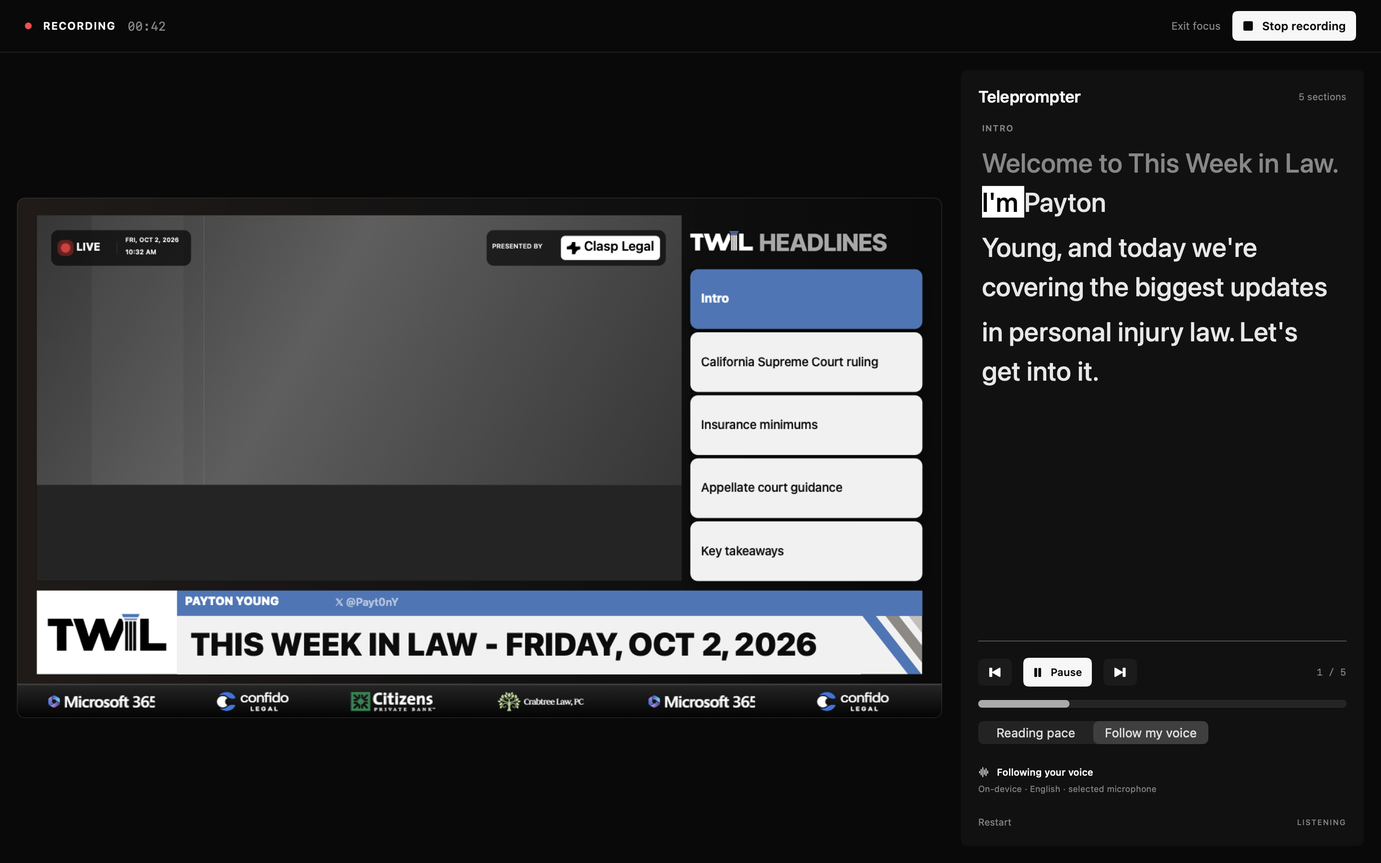
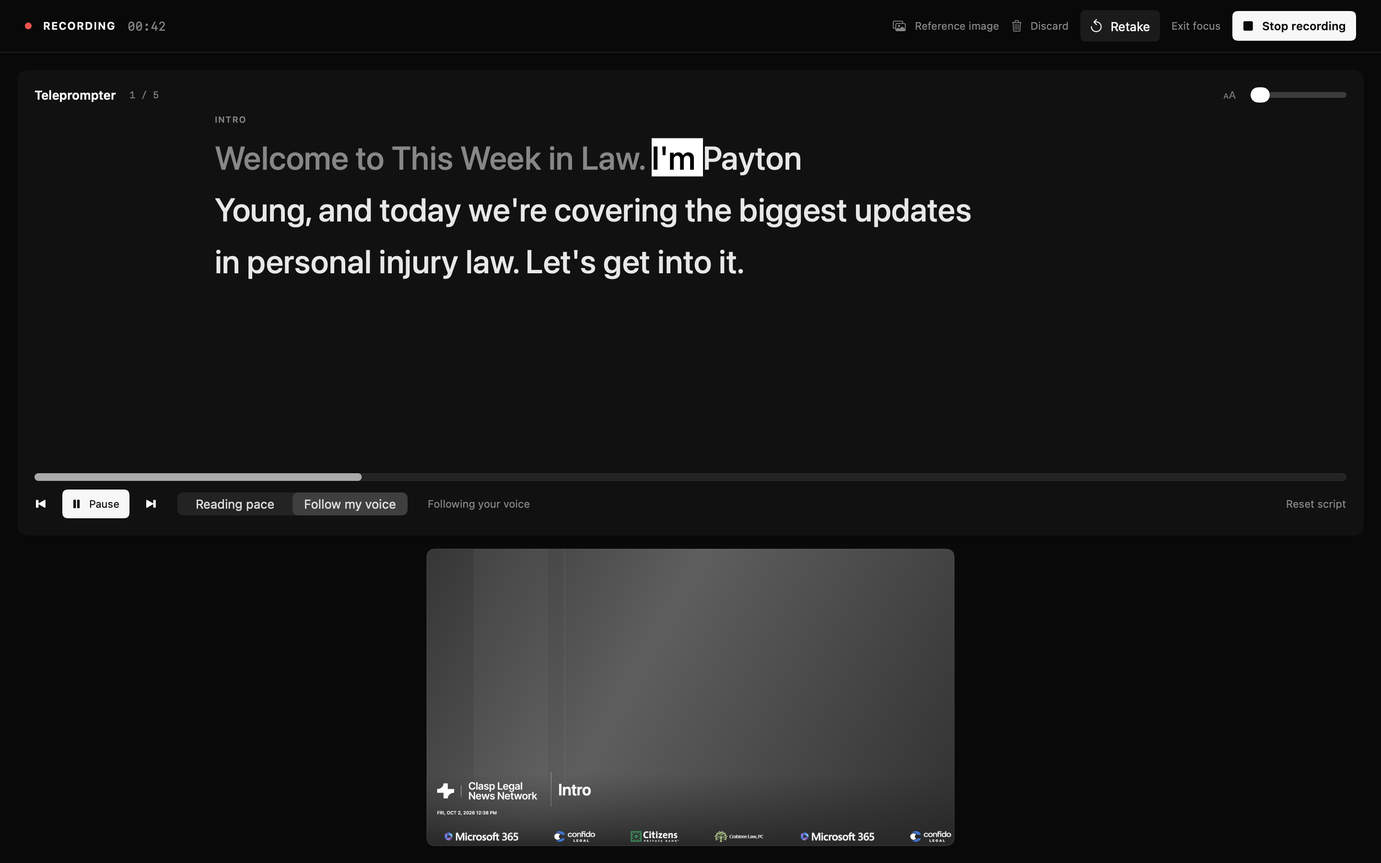
Put the teleprompter first, add recoverable retakes, and frost SVG overlays

diff --git a/Sources/StudioView.swift b/Sources/StudioView.swift
@@ -27,8 +27,27 @@ struct StudioView: View {
                     branding.frame(width: 222).transition(.move(edge: .leading).combined(with: .opacity))
                     Rectangle().fill(edge).frame(width: 1)
                 }
-                center.frame(maxWidth: .infinity, maxHeight: .infinity)
-                script.frame(width: model.recordingFocus ? 420 : 336)
+                if prompterAtTop {
+                    GeometryReader { geometry in
+                        VStack(spacing: 14) {
+                            topPrompter.frame(height: geometry.size.height * 0.60)
+                            HStack(spacing: 20) {
+                                cameraFrame.frame(maxWidth: 640, maxHeight: .infinity)
+                                if !model.recordingFocus {
+                                    VStack(alignment: .leading, spacing: 15) {
+                                        Text("Preview").font(.system(size: 13, weight: .medium))
+                                        HStack { referenceButton; Spacer(); Toggle("Overlay", isOn: $model.project.graphics).toggleStyle(.switch).controlSize(.mini) }
+                                        deviceBar
+                                        Button { model.openAppleEffects() } label: { Label("Apple backgrounds & effects", systemImage: "sparkles") }.buttonStyle(.plain).foregroundStyle(muted).disabled(!model.connected)
+                                    }.font(.system(size: 11)).frame(maxWidth: 380)
+                                }
+                            }.frame(maxWidth: .infinity, maxHeight: .infinity)
+                        }
+                    }
+                } else {
+                    center.frame(maxWidth: .infinity, maxHeight: .infinity)
+                    script.frame(width: 336)
+                }
             }.padding(model.recordingFocus ? 18 : 24)
             if !model.recordingFocus { footer }
         }.background(ink).foregroundStyle(.white).preferredColorScheme(.dark).tint(accent)
@@ -61,6 +80,10 @@ struct StudioView: View {
             Text(model.overlay.title).font(.system(size: 11, weight: .medium)).foregroundStyle(muted).lineLimit(1)
             Spacer()
             Button { model.importVideo() } label: { Label("Import video", systemImage: "film.stack").font(.system(size: 11, weight: .medium)) }.buttonStyle(StudioButton()).disabled(model.busy)
+            if model.recording || model.preparingRecording {
+                Button("Discard") { model.discardRecording() }.buttonStyle(StudioButton()).disabled(model.finishingRecording)
+                Button("Retake") { model.discardRecording(retake: true) }.buttonStyle(StudioButton()).disabled(model.finishingRecording)
+            }
             Button { model.draftsOpen = true } label: { Text("Drafts").font(.system(size: 11, weight: .medium)) }.buttonStyle(StudioButton()).disabled(model.busy)
             Button { model.editOverlays() } label: { Label("Overlays", systemImage: "square.stack").font(.system(size: 11, weight: .medium)) }.buttonStyle(StudioButton())
             Button { customize() } label: { Label("Customize", systemImage: "slider.horizontal.3").font(.system(size: 11, weight: .medium)) }.buttonStyle(StudioButton()).help("Edit your broadcast headline, presenter and sponsors")
@@ -82,6 +105,8 @@ struct StudioView: View {
             else { Text(model.connecting ? "Allow camera and microphone access if prompted" : model.preparingRecording ? "Waiting for the first camera frame…" : "Finishing your movie…").font(.system(size: 10)).foregroundStyle(muted) }
             Spacer()
             referenceButton
+            Button { model.discardRecording() } label: { Label("Discard", systemImage: "trash") }.buttonStyle(.plain).font(.system(size: 11)).foregroundStyle(muted).disabled(model.finishingRecording).help("Move this take to Trash")
+            Button { model.discardRecording(retake: true) } label: { Label("Retake", systemImage: "arrow.counterclockwise") }.buttonStyle(StudioButton()).disabled(model.finishingRecording).help("Discard this take and record again from the beginning")
             Button("Exit focus") { model.recordingFocus = false }.buttonStyle(.plain).font(.system(size: 11)).foregroundStyle(muted)
             Button { model.stopRecording() } label: { Label(model.openingVideoEditor ? "Opening editor…" : model.finishingRecording ? "Preparing edit…" : model.preparingRecording ? "Cancel" : "Stop recording", systemImage: "stop.fill").font(.system(size: 12, weight: .semibold)) }.buttonStyle(StudioButton(primary: true)).disabled(model.finishingRecording)
         }.padding(.horizontal, 26).frame(height: 54)
@@ -108,7 +133,20 @@ struct StudioView: View {
                 Spacer()
                 Text(model.outputDimensions).font(.system(size: 9, weight: .medium)).foregroundStyle(muted)
             } }
-            if model.recordingFocus { Spacer(minLength: 0) }
+            cameraFrame
+            if !model.recordingFocus { HStack(spacing: 16) {
+                referenceButton
+                Button { model.openAppleEffects() } label: { Label(model.nativeBackgroundActive ? "Apple background active" : "Apple backgrounds & effects", systemImage: "sparkles").font(.system(size: 11)) }.buttonStyle(.plain).foregroundStyle(muted).disabled(!model.connected).help("Open macOS native video effects and backgrounds")
+                Button { model.editOverlays("Sponsors") } label: { Label("Edit sponsors", systemImage: "arrow.triangle.2.circlepath").font(.system(size: 11)) }.buttonStyle(.plain).foregroundStyle(muted)
+                Spacer()
+                Toggle("Show overlay", isOn: $model.project.graphics).toggleStyle(.switch).controlSize(.mini).font(.system(size: 11))
+                Button { model.snapshot() } label: { Label("Save frame", systemImage: "camera").font(.system(size: 11)) }.buttonStyle(.plain).foregroundStyle(muted).help("Save the current preview as an image")
+            }.frame(height: 24)
+            deviceBar }
+            Spacer(minLength: 0)
+        }
+    }
+    private var cameraFrame: some View {
             ZStack {
                 if model.connected || model.allowsWindowChanges { CameraPreviewView(surface: model.previewSurface) }
                 else if let image = model.demoImage { Image(nsImage: image).resizable().aspectRatio(model.outputAspectRatio, contentMode: .fit) }
@@ -125,17 +163,6 @@ struct StudioView: View {
                     }
                 }
             }.aspectRatio(model.outputAspectRatio, contentMode: .fit).clipShape(RoundedRectangle(cornerRadius: 8)).overlay(RoundedRectangle(cornerRadius: 8).stroke(edge))
-            if !model.recordingFocus { HStack(spacing: 16) {
-                referenceButton
-                Button { model.openAppleEffects() } label: { Label(model.nativeBackgroundActive ? "Apple background active" : "Apple backgrounds & effects", systemImage: "sparkles").font(.system(size: 11)) }.buttonStyle(.plain).foregroundStyle(muted).disabled(!model.connected).help("Open macOS native video effects and backgrounds")
-                Button { model.editOverlays("Sponsors") } label: { Label("Edit sponsors", systemImage: "arrow.triangle.2.circlepath").font(.system(size: 11)) }.buttonStyle(.plain).foregroundStyle(muted)
-                Spacer()
-                Toggle("Show overlay", isOn: $model.project.graphics).toggleStyle(.switch).controlSize(.mini).font(.system(size: 11))
-                Button { model.snapshot() } label: { Label("Save frame", systemImage: "camera").font(.system(size: 11)) }.buttonStyle(.plain).foregroundStyle(muted).help("Save the current preview as an image")
-            }.frame(height: 24)
-            deviceBar }
-            Spacer(minLength: 0)
-        }
     }
     private var referenceButton: some View {
         Button { referenceOpen.toggle() } label: {
@@ -151,12 +178,52 @@ struct StudioView: View {
             }.frame(maxWidth: .infinity, alignment: .leading)
             Rectangle().fill(edge).frame(width: 1, height: 36)
             VStack(alignment: .leading, spacing: 8) {
-                HStack { Label("Microphone", systemImage: "mic").font(.system(size: 10, weight: .medium)).foregroundStyle(muted); Spacer(); MicrophoneMeter(meter: model.audioMeter) }
+                HStack { Label(prompterAtTop ? "Mic" : "Microphone", systemImage: "mic").font(.system(size: 10, weight: .medium)).fixedSize(horizontal: true, vertical: false).foregroundStyle(muted); Spacer(); MicrophoneMeter(meter: model.audioMeter) }
                 Picker("Microphone", selection: $model.microphoneID) { Text("No microphone").tag("none"); ForEach(model.microphones, id: \.uniqueID) { Text($0.localizedName).tag($0.uniqueID) } }.labelsHidden().disabled(model.busy).onChange(of: model.microphoneID) { _, _ in model.selectDevice() }
             }.frame(maxWidth: .infinity, alignment: .leading)
             Button { model.refreshDevices() } label: { Image(systemName: "arrow.clockwise").font(.system(size: 11)) }.buttonStyle(.plain).foregroundStyle(muted).disabled(model.busy).help("Refresh camera and microphone list").accessibilityLabel("Refresh devices")
             if model.connected { Button("Disconnect") { model.disconnect() }.buttonStyle(.plain).font(.system(size: 10)).foregroundStyle(muted).disabled(model.busy) }
         }.pickerStyle(.menu).font(.system(size: 11)).padding(16).background(panel).clipShape(RoundedRectangle(cornerRadius: 8))
+    }
+    private var prompterAtTop: Bool { model.recordingFocus || scriptTab == "Teleprompter" }
+    private var promptText: some View {
+                ScrollViewReader { proxy in
+                    ScrollView {
+                        LazyVStack(alignment: .leading, spacing: 14) {
+                            Text(model.section?.title.uppercased() ?? "").font(.system(size: 9, weight: .semibold)).tracking(0.8).foregroundStyle(muted)
+                            ForEach(0..<max(1, (model.sectionWords.count + 7) / 8), id: \.self) { line in Text(promptLine(line)).font(.system(size: prompterAtTop ? max(34, model.prompterSize) : model.prompterSize, weight: .medium)).lineSpacing(8).fixedSize(horizontal: false, vertical: true).id(line) }
+                            Color.clear.frame(height: 100)
+                        }.padding(.horizontal, 4)
+                    }.onChange(of: model.currentWord / 8) { _, line in if model.prompterRunning { withAnimation(.easeInOut(duration: 0.4)) { proxy.scrollTo(line, anchor: prompterAtTop ? .top : .center) } } }.onChange(of: model.activeSection) { _, _ in proxy.scrollTo(model.currentWord / 8, anchor: prompterAtTop ? .top : .center) }.onAppear { proxy.scrollTo(model.currentWord / 8, anchor: prompterAtTop ? .top : .center) }
+                }
+    }
+    private var topPrompter: some View {
+        VStack(alignment: .leading, spacing: 12) {
+            HStack(spacing: 14) {
+                Text("Teleprompter").font(.system(size: 13, weight: .semibold))
+                Text("\(model.activeSection + 1) / \(model.project.sections.count)").font(.system(size: 10, design: .monospaced)).foregroundStyle(muted)
+                Spacer()
+                if !model.recordingFocus {
+                    Button("Import script") { model.importScript() }.buttonStyle(.plain)
+                    Button("Edit / paste") { model.editScript() }.buttonStyle(.plain)
+                    Button("Sections") { scriptTab = "Sections" }.buttonStyle(.plain)
+                }
+                Image(systemName: "textformat.size").foregroundStyle(muted)
+                Slider(value: $model.prompterSize, in: 34...52).frame(width: 100).help("Teleprompter text size")
+            }.font(.system(size: 11))
+            promptText.frame(maxWidth: 1000, maxHeight: .infinity, alignment: .topLeading).frame(maxWidth: .infinity)
+            ProgressView(value: model.progress).tint(.white).frame(height: 2)
+            HStack(spacing: 16) {
+                Button { model.previous() } label: { Image(systemName: "backward.end.fill") }.help("Previous section")
+                Button { model.togglePrompter() } label: { Label(model.prompterRunning ? "Pause" : model.prompterMode == .voice ? "Follow my voice" : "Read script", systemImage: model.prompterRunning ? "pause.fill" : model.prompterMode == .voice ? "mic.fill" : "play.fill") }.buttonStyle(StudioButton(primary: true))
+                Button { model.next() } label: { Image(systemName: "forward.end.fill") }.disabled(model.activeSection + 1 >= model.project.sections.count).help("Next section")
+                Picker("Scroll mode", selection: $model.prompterMode) { ForEach(PrompterMode.allCases, id: \.self) { Text($0.rawValue).tag($0) } }.pickerStyle(.segmented).frame(width: 250).labelsHidden()
+                if model.prompterMode == .voice { Text(model.voiceStatus).foregroundStyle(muted).lineLimit(1) }
+                else { Slider(value: $model.project.wordsPerMinute, in: 80...220, step: 5).frame(width: 110); Text("\(Int(model.project.wordsPerMinute)) wpm").foregroundStyle(muted) }
+                Spacer(minLength: 0)
+                Button("Reset script") { model.restart() }.foregroundStyle(muted)
+            }.buttonStyle(.plain).font(.system(size: 11))
+        }.padding(18).background(panel).clipShape(RoundedRectangle(cornerRadius: 10))
     }
     var script: some View {
         VStack(alignment: .leading, spacing: 17) {
@@ -189,15 +256,7 @@ struct StudioView: View {
                     }.onChange(of: model.activeSection) { _, _ in if let id = model.section?.id { withAnimation { proxy.scrollTo(id, anchor: .top) } } }
                 }
             } else {
-                ScrollViewReader { proxy in
-                    ScrollView {
-                        LazyVStack(alignment: .leading, spacing: 14) {
-                            Text(model.section?.title.uppercased() ?? "").font(.system(size: 9, weight: .semibold)).tracking(0.8).foregroundStyle(muted)
-                            ForEach(0..<max(1, (model.sectionWords.count + 7) / 8), id: \.self) { line in Text(promptLine(line)).font(.system(size: model.recordingFocus ? max(28, model.prompterSize) : model.prompterSize, weight: .medium)).lineSpacing(8).fixedSize(horizontal: false, vertical: true).id(line) }
-                            Color.clear.frame(height: 100)
-                        }.padding(.horizontal, 4)
-                    }.onChange(of: model.currentWord / 8) { _, line in if model.prompterRunning { withAnimation(.easeInOut(duration: 0.4)) { proxy.scrollTo(line, anchor: .center) } } }.onChange(of: model.activeSection) { _, _ in proxy.scrollTo(model.currentWord / 8, anchor: .center) }.onAppear { proxy.scrollTo(model.currentWord / 8, anchor: .center) }
-                }
+                promptText
                 if !model.recordingFocus { HStack { Image(systemName: "textformat.size").foregroundStyle(muted); Slider(value: $model.prompterSize, in: 16...34).help("Prompter text size") } }
             }
             Spacer(minLength: 0)

diff --git a/Sources/StudioModel.swift b/Sources/StudioModel.swift
@@ -84,6 +84,8 @@ enum PrompterMode: String, CaseIterable {
     private var recordedProject: StudioProject?
     private var recordCues: [RecordedSectionCue] = []
     private var recordReferences: [RecordedReferenceCue] = []
+    private enum TakeAction { case edit, discard, retake }
+    private var takeAction = TakeAction.edit
     @Published var editorOpen = false
     @Published var editorText = ""
     @Published var settingsOpen = false
@@ -95,7 +97,7 @@ enum PrompterMode: String, CaseIterable {
     var outputAspectRatio: CGFloat { outputRect.width / outputRect.height }
     var outputDimensions: String { "\(Int(outputRect.width)) × \(Int(outputRect.height))" }
     var sponsors: [SponsorItem] { SponsorCatalog.migrated(project) }
-    @Published var prompterSize = 22.0
+    @Published var prompterSize = 34.0
     let updater = AppUpdater()
     let engine = CaptureEngine()
     private var timer: Timer?
@@ -198,6 +200,17 @@ enum PrompterMode: String, CaseIterable {
         engine.onRecordingFinished = { [weak self] url, error in DispatchQueue.main.async {
             guard let self else { return }
             self.frameDeadline?.invalidate(); self.recording = false; self.preparingRecording = false; self.finishingRecording = false; self.recordStarted = nil; self.recordingFocus = false; self.pausePrompter()
+            let action = self.takeAction; self.takeAction = .edit
+            if action != .edit {
+                do {
+                    if let folder = self.recordingDraft { try EditStorage.trashDraft(folder) }
+                    self.recordingDraft = nil; self.recordedProject = nil; self.recordCues = []; self.recordReferences = []; self.recordElapsed = 0
+                    self.notice = "Take moved to Trash. You can restore it in Finder."
+                    self.restart()
+                    if action == .retake { self.startRecording() }
+                } catch { self.alert = "The take was kept because it could not be moved to Trash: " + error.localizedDescription }
+                return
+            }
             if let error { self.alert = error; self.notice = "Recording could not be saved."; self.log(error) }
             else if let url {
                 self.notice = "Take captured · opening the editor…"; self.log("Draft recording finalized successfully")
@@ -530,6 +543,7 @@ enum PrompterMode: String, CaseIterable {
     }
     func startRecording() {
         guard !busy else { return }
+        takeAction = .edit
         // Focus and feedback change on the click, even before permissions or the
         // first camera frame. Never leave the user wondering whether it worked.
         recordingFocus = true; preparingRecording = true; recordElapsed = 0
@@ -573,6 +587,25 @@ enum PrompterMode: String, CaseIterable {
         }
         finishingRecording = true; recording = false; preparingRecording = false
         log("Finalizing recording"); engine.stopRecording()
+    }
+    func discardRecording(retake: Bool = false) {
+        guard !finishingRecording, recording || preparingRecording || pendingRecordingStart else { return }
+        if pendingRecordingStart {
+            stopRecording(); restart()
+            if retake { startRecording() }
+            return
+        }
+        takeAction = retake ? .retake : .discard; stopRecording()
+        notice = retake ? "Preparing a fresh take…" : "Discarding take…"
+    }
+    func discardDraft(retake: Bool = false) {
+        guard let editor = videoEditor, !editor.isExporting, !editor.importing else { return }
+        editor.saveNow()
+        do {
+            try EditStorage.trashDraft(editor.folder); editor.stop(); videoEditor = nil; recordingSavedOpen = false
+            restart(); notice = "Draft moved to Trash. Exported videos and original imports are kept."
+            if retake { startRecording() }
+        } catch { editor.error = "The draft was kept because it could not be moved to Trash: " + error.localizedDescription }
     }
     private func configureEditor(_ editor: VideoEditorModel) {
         pausePrompter(); engine.disconnect(); connected = false

diff --git a/Tests/RecordingRetakeTests.swift b/Tests/RecordingRetakeTests.swift
@@ -1,0 +1,46 @@
+import AppKit
+import AVFoundation
+
+extension StudioTests {
+    static func recordingRetakeChecks() async {
+        let model = await MainActor.run { () -> StudioModel in
+            let model = StudioModel(persist: false); model.connected = true; model.prompterMode = .timed
+            model.activeSection = 1; model.startRecording(); return model
+        }
+        for index in 0..<8 {
+            model.engine.queue.sync { model.engine.processVideo(videoSample(index: index)!) }
+            try? await Task.sleep(nanoseconds: 35_000_000)
+        }
+        await MainActor.run { model.discardRecording(retake: true) }
+        for _ in 0..<100 {
+            if await MainActor.run(body: { model.preparingRecording && !model.finishingRecording }) { break }
+            try? await Task.sleep(nanoseconds: 30_000_000)
+        }
+        await MainActor.run {
+            check(model.preparingRecording && model.recordingFocus && model.activeSection == 0 && model.videoEditor == nil && model.alert == nil, "Retake finalizes and discards the old take, resets the script and starts a fresh encoder")
+        }
+        for index in 0..<8 {
+            model.engine.queue.sync { model.engine.processVideo(videoSample(index: index)!) }
+            try? await Task.sleep(nanoseconds: 35_000_000)
+        }
+        await MainActor.run { model.stopRecording() }
+        for _ in 0..<100 {
+            if await MainActor.run(body: { model.videoEditor != nil && !model.busy }) { break }
+            try? await Task.sleep(nanoseconds: 30_000_000)
+        }
+        await MainActor.run {
+            check(model.videoEditor != nil && model.alert == nil, "The replacement take remains playable and opens the editor normally")
+            let folder = model.videoEditor!.folder
+            model.discardDraft()
+            check(model.videoEditor == nil && !FileManager.default.fileExists(atPath: folder.path) && model.activeSection == 0, "Discard draft moves its media to Trash and returns to a reset studio")
+            model.startRecording(); model.discardRecording()
+        }
+        for _ in 0..<100 {
+            if await MainActor.run(body: { !model.busy }) { break }
+            try? await Task.sleep(nanoseconds: 30_000_000)
+        }
+        await MainActor.run {
+            check(!model.busy && model.videoEditor == nil && !model.recordingFocus && model.alert == nil, "Discard before the first frame cancels cleanly without a recording-error popup")
+        }
+    }
+}

diff --git a/Sources/Graphics.swift b/Sources/Graphics.swift
@@ -9,6 +9,7 @@ struct RenderSettings: @unchecked Sendable {
     var animation: BroadcastAnimation?
     var frostMask: CGImage?
     var frostRadius: Double = 0
+    var frostMaskGain: Double = 1
     var referenceCard: CGImage?
     var outputRect = CGRect(x: 0, y: 0, width: 1280, height: 720)
 }
@@ -106,8 +107,8 @@ enum BroadcastGraphics {
             let previous = previousSection.flatMap { project.sections.indices.contains($0) ? project.sections[$0].title : nil }
             animation.headlineTicker = HeadlineTicker(current: current, previous: previous, zone: doc.textZone(.headlines), style: doc.style(.headlines), epoch: tickerEpoch ?? -1_000_000, color: NSColor(studioHex: doc.accentHex))
         }
-        let frost = template == .glass ? glassFrostMask(doc) : nil
-        return RenderSettings(overlay: baseOverlay(project, doc: doc, activeIndex: activeIndex, at: date), mirror: project.mirror, cameraRect: rect, cameraMask: mask, animation: animation, frostMask: frost, frostRadius: template == .glass ? min(40, max(0, doc.frostRadius ?? 22)) : 0, referenceCard: ReferenceCardGraphics.artwork(project, camera: rect), outputRect: outputRect(project))
+        let frost = template == .glass ? glassFrostMask(doc) : template == .ticker ? tickerFrostMask : nil
+        return RenderSettings(overlay: baseOverlay(project, doc: doc, activeIndex: activeIndex, at: date), mirror: project.mirror, cameraRect: rect, cameraMask: mask, animation: animation, frostMask: frost, frostRadius: frost == nil ? 0 : min(60, max(0, doc.frostRadius ?? (template == .ticker ? 40 : 22))), referenceCard: ReferenceCardGraphics.artwork(project, camera: rect), outputRect: outputRect(project))
     }
     static func overlay(_ project: StudioProject, section: String, activeIndex: Int? = nil, at date: Date = Date()) -> CGImage? {
         let settings = renderSettings(project, activeIndex: activeIndex ?? project.sections.firstIndex(where: { $0.title == section }) ?? 0, at: date)

diff --git a/Tests/AdvancedEditorTests.swift b/Tests/AdvancedEditorTests.swift
@@ -65,6 +65,15 @@ extension StudioTests {
         let inside = frostedPixels.colorAt(x: 200, y: 520)!.redComponent
         let outside = frostedPixels.colorAt(x: 700, y: 520)!.redComponent
         check(inside > 0.25 && inside < 0.75 && (outside < 0.1 || outside > 0.9), "Frosted overlay panels blur their backdrop while the camera remains sharp elsewhere")
+        let svgMask = BroadcastGraphics.image { ctx in BroadcastGraphics.fill(ctx, CGRect(x: 0, y: 0, width: 1280, height: 170), NSColor.black.withAlphaComponent(0.18)) }!
+        var svgDocument = OverlayDocument.presets(broadcast)[0]; svgDocument.template = .custom
+        svgDocument.importedSVG = ImportedSVGOverlay(source: Data(), png: NSBitmapImageRep(cgImage: svgMask).representation(using: .png, properties: [:])!, camera: SVGCameraWindow(), fit: .fit)
+        var svgFrost = ImportedSVGGraphics.settings(svgDocument, mirror: false); svgFrost.overlay = nil
+        let svgPixels = NSBitmapImageRep(cgImage: context.createCGImage(BroadcastFrameRenderer(svgFrost).compose(checker), from: bounds)!)
+        let lower = svgPixels.colorAt(x: 500, y: 620)!.redComponent, upper = svgPixels.colorAt(x: 500, y: 200)!.redComponent
+        check(lower > 0.25 && lower < 0.75 && (upper < 0.1 || upper > 0.9), "Imported SVG gradients blur their backdrop strongly while the transparent camera area stays sharp")
+        svgDocument.frostRadius = 0
+        check(ImportedSVGGraphics.settings(svgDocument, mirror: false).frostRadius == 0, "Imported overlay backdrop blur can be disabled without changing its artwork")
         try await svgOverlayChecks()
         try await referenceImageChecks(main: main, folder: folder)
         try await singleLaneEditorChecks(main: main, folder: folder)

diff --git a/Sources/ImportedSVGInspector.swift b/Sources/ImportedSVGInspector.swift
@@ -21,6 +21,9 @@ struct ImportedSVGInspector: View {
                 Text("The preview and exported video use the SVG’s proportions. Side space is removed; the artwork and camera opening keep their shape.").foregroundStyle(.secondary).lineSpacing(3)
                 HStack { Text("Artwork opacity"); Spacer(); Text("\(Int((model.overlay.artworkOpacity ?? 1) * 100))%").monospacedDigit() }
                 Slider(value: Binding(get: { model.overlay.artworkOpacity ?? 1 }, set: { value in model.editOverlay { $0.artworkOpacity = value } }), in: 0...1)
+                HStack { Text("Backdrop blur"); Spacer(); Text("\(Int(model.overlay.frostRadius ?? 40))").monospacedDigit() }
+                Slider(value: Binding(get: { model.overlay.frostRadius ?? 40 }, set: { value in model.editOverlay { $0.frostRadius = value } }), in: 0...60)
+                Text("Blurs the camera beneath translucent SVG artwork while keeping text, logos and the clear camera area sharp.").foregroundStyle(.secondary).lineSpacing(3)
                 Toggle("Replace large photos with camera", isOn: Binding(get: { model.overlay.importedSVG?.replacePhotos ?? true }, set: { model.refreshImportedSVG(replacePhotos: $0) })).toggleStyle(.checkbox).disabled(model.importingSVG || model.busy)
                 Toggle("Remove solid canvas fill", isOn: Binding(get: { model.overlay.importedSVG?.removeCanvasFill ?? true }, set: { model.refreshImportedSVG(removeCanvasFill: $0) })).toggleStyle(.checkbox).disabled(model.importingSVG || model.busy)
                 Divider()

diff --git a/Sources/OverlayComponentEditor.swift b/Sources/OverlayComponentEditor.swift
@@ -93,10 +93,10 @@ struct OverlayComponentEditor: View {
             logo(program: true)
             logo(program: false)
         case .headlines:
-            if model.overlay.template == .glass {
+            if model.overlay.template == .glass || model.overlay.template == .ticker {
                 Text("Frosted panels").font(.system(size: 12, weight: .medium))
-                HStack { Text("Blur"); Slider(value: Binding(get: { model.overlay.frostRadius ?? 22 }, set: { value in model.editOverlay { $0.frostRadius = value } }), in: 0...40) }
-                HStack { Text("Tint"); Slider(value: Binding(get: { model.overlay.frostOpacity ?? 0.55 }, set: { value in model.editOverlay { $0.frostOpacity = value } }), in: 0.15...0.9) }
+                HStack { Text("Blur"); Slider(value: Binding(get: { model.overlay.frostRadius ?? (model.overlay.template == .ticker ? 40 : 22) }, set: { value in model.editOverlay { $0.frostRadius = value } }), in: 0...60) }
+                if model.overlay.template == .glass { HStack { Text("Tint"); Slider(value: Binding(get: { model.overlay.frostOpacity ?? 0.55 }, set: { value in model.editOverlay { $0.frostOpacity = value } }), in: 0.15...0.9) } }
             }
             if model.overlay.template == .ticker { Text("One headline scrolls upward as the script changes sections.").font(.system(size: 11)).foregroundStyle(.secondary) }
             Toggle("Show headlines", isOn: value(\.showHeadlines)).toggleStyle(.checkbox)

diff --git a/Sources/VideoEditorView.swift b/Sources/VideoEditorView.swift
@@ -56,6 +56,8 @@ struct VideoEditorView: View {
             Button { studio.closeVideoEditor() } label: { Image(systemName: "chevron.left").frame(width: 24, height: 28) }.help("Back to studio · draft stays saved").disabled(model.isExporting || model.importing)
             TextField("Broadcast name", text: $model.document.name).font(.system(size: 13, weight: .medium)).textFieldStyle(.plain).frame(maxWidth: 360).disabled(model.isExporting)
             Spacer()
+            Button { studio.discardDraft() } label: { Label("Discard draft", systemImage: "trash") }.disabled(model.isExporting || model.importing).help("Move this draft to Trash; original imports and exports are kept")
+            Button { studio.discardDraft(retake: true) } label: { Label("Retake", systemImage: "arrow.counterclockwise") }.disabled(model.isExporting || model.importing).help("Move this draft to Trash and record again from the start of your script")
             if model.importing { ProgressView().controlSize(.small); Text("Importing…").font(.system(size: 11)) }
             Image(systemName: "checkmark.icloud").foregroundStyle(.secondary).help("Draft saves automatically on this Mac")
             Button { model.undo() } label: { Image(systemName: "arrow.uturn.backward") }.disabled(!model.canUndo || model.isExporting).help("Undo · ⌘Z").keyboardShortcut("z")

diff --git a/Sources/TickerOverlay.swift b/Sources/TickerOverlay.swift
@@ -28,6 +28,14 @@ struct HeadlineTicker: @unchecked Sendable {
     }
 }
 extension BroadcastGraphics {
+    static let tickerFrostMask: CGImage? = image { ctx in
+        let top = 720 - 1265 * 720 / 1677.0
+        let colors = [NSColor.white.withAlphaComponent(0).cgColor, NSColor.white.cgColor, NSColor.white.cgColor] as CFArray
+        if let gradient = CGGradient(colorsSpace: CGColorSpaceCreateDeviceRGB(), colors: colors, locations: [0, 0.22, 1]) {
+            ctx.saveGState(); ctx.clip(to: CGRect(x: 0, y: 0, width: 1280, height: top))
+            ctx.drawLinearGradient(gradient, start: CGPoint(x: 0, y: top), end: .zero, options: []); ctx.restoreGState()
+        }
+    }
     static let legalNetworkBrand: CGImage? = Bundle.main.url(forResource: "LegalNetworkBrand", withExtension: "png").flatMap { NSImage(contentsOf: $0)?.studioCGImage }
     static func networkBrand(_ ctx: CGContext, project: StudioProject, doc: OverlayDocument, in rect: CGRect) {
         if let custom = doc.programLogoData.flatMap({ NSImage(data: $0)?.studioCGImage }) { drawLogo(ctx, custom, in: rect); return }

diff --git a/Sources/OverlayLibrary.swift b/Sources/OverlayLibrary.swift
@@ -128,7 +128,12 @@ struct BroadcastFrameRenderer: @unchecked Sendable {
     private let referenceCard: CIImage?
     init(_ settings: RenderSettings) {
         self.settings = settings; overlay = settings.overlay.map(CIImage.init(cgImage:))
-        mask = settings.cameraMask.map(CIImage.init(cgImage:)); frostMask = settings.frostMask.map(CIImage.init(cgImage:))
+        mask = settings.cameraMask.map(CIImage.init(cgImage:))
+        frostMask = settings.frostMask.map { image in
+            let mask = CIImage(cgImage: image)
+            guard settings.frostMaskGain != 1 else { return mask }
+            return mask.applyingFilter("CIColorMatrix", parameters: ["inputAVector": CIVector(x: 0, y: 0, z: 0, w: settings.frostMaskGain)]).applyingFilter("CIColorClamp", parameters: ["inputMinComponents": CIVector(x: 0, y: 0, z: 0, w: 0), "inputMaxComponents": CIVector(x: 1, y: 1, z: 1, w: 1)])
+        }
         referenceCard = settings.referenceCard.map(CIImage.init(cgImage:))
     }
     func compose(_ source: CIImage, at time: Double = ProcessInfo.processInfo.systemUptime) -> CIImage {

diff --git a/Sources/SVGOverlay.swift b/Sources/SVGOverlay.swift
@@ -187,6 +187,8 @@ enum ImportedSVGGraphics {
             if doc.cutCameraWindow == true { ctx.setBlendMode(.clear); BroadcastGraphics.rounded(ctx, rect, camera.safeRadius, .clear) }
         }
         let mask = BroadcastGraphics.image { ctx in BroadcastGraphics.rounded(ctx, rect, camera.safeRadius, .white) }
-        return RenderSettings(overlay: overlay, mirror: mirror, cameraRect: rect, cameraMask: mask)
+        // Blur follows the SVG's alpha: clear camera pixels stay sharp, while
+        // translucent gradients receive a stronger frost beneath their artwork.
+        return RenderSettings(overlay: overlay, mirror: mirror, cameraRect: rect, cameraMask: mask, frostMask: overlay, frostRadius: min(60, max(0, doc.frostRadius ?? 40)), frostMaskGain: 8)
     }
 }

diff --git a/Sources/VideoEditProject.swift b/Sources/VideoEditProject.swift
@@ -105,6 +105,10 @@ struct VideoEditDocument: Codable {
     }
 }
 enum EditStorage {
+    static func trashDraft(_ folder: URL) throws {
+        guard FileManager.default.fileExists(atPath: folder.path) else { return }
+        try FileManager.default.trashItem(at: folder, resultingItemURL: nil)
+    }
     static var root: URL { FileManager.default.urls(for: .applicationSupportDirectory, in: .userDomainMask)[0].appendingPathComponent("ClaspStudio") }
     static var drafts: URL { root.appendingPathComponent("Drafts") }
     static var animations: URL { root.appendingPathComponent("Animations") }
